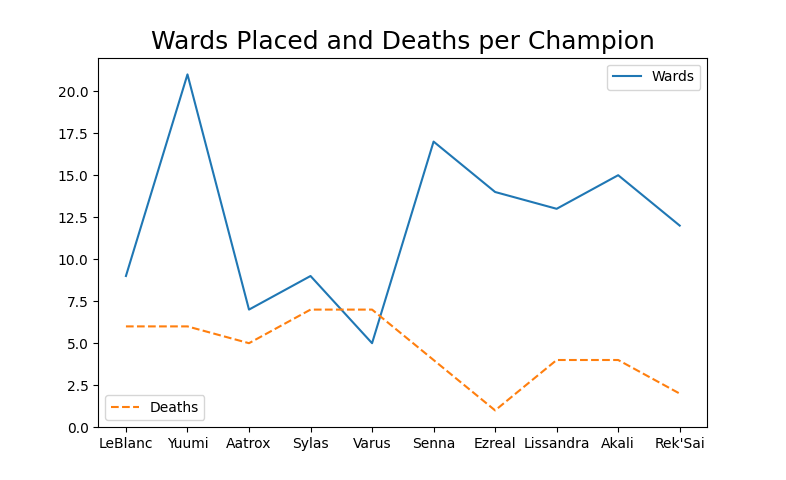
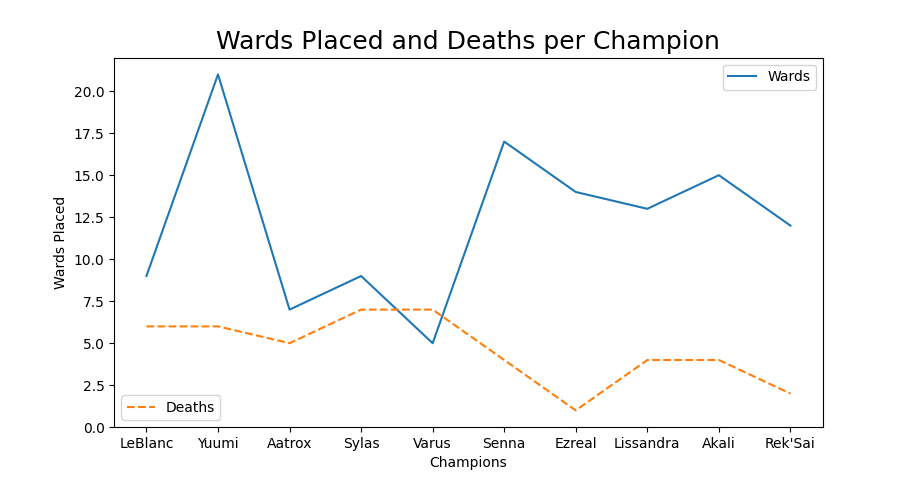
graphs update and machine learning csv fixes

diff --git a/utils/import_from_dataset_to_db.py b/utils/import_from_dataset_to_db.py
@@ -40,7 +40,7 @@ def lerPartidasIndividuais():
 
             #Criação de todas as variaveis
             gameCreation = informacoesGerais[0]
-            gameDuration = informacoesGerais[1]
+            gameDuration = float(informacoesGerais[1])
             gameId = informacoesGerais[2]
             gameMode = informacoesGerais[3]
             gameType = informacoesGerais[4]
@@ -57,8 +57,42 @@ def lerPartidasIndividuais():
             participantIdentities = ast.literal_eval(participantIdentities) #Transforma string em uma lista
             
             #participants
+            pararlinha= False
             participants = dadosPartida[3]
             participants = ast.literal_eval(participants) #Transforma string em uma lista
+            if (len(participants)) != 10:
+                continue
+            for i in range(len(participants)):
+                if 'stats' not in participants[i]:
+                    pararlinha=True
+                    break 
+                if 'wardsPlaced' not in participants[i]['stats']:
+                    participants[i]['stats']['wardsPlaced'] = 0
+                if 'wardsKilled' not in participants[i]['stats']:
+                    participants[i]['stats']['wardsKilled'] = 0
+                if 'neutralMinionsKilled' not in participants[i]['stats']:
+                    participants[i]['stats']['neutralMinionsKilled']=0
+                if 'neutralMinionsKilledTeamJungle' not in participants[i]['stats']:
+                    participants[i]['stats']['neutralMinionsKilledTeamJungle']=0
+                if 'neutralMinionsKilledEnemyJungle' not in participants[i]['stats']:
+                    participants[i]['stats']['neutralMinionsKilledEnemyJungle']=0
+                if 'firstBloodKill' not in participants[i]['stats']:
+                    participants[i]['stats']['firstBloodKill']= False
+                if 'firstBloodAssist' not in participants[i]['stats']:
+                    participants[i]['stats']['firstBloodAssist']= False
+                if 'firstTowerKill' not in participants[i]['stats']:
+                    participants[i]['stats']['firstTowerKill']=False
+                if 'firstTowerAssist' not in participants[i]['stats']:
+                    participants[i]['stats']['firstTowerAssist']=False
+                if 'firstInhibitorKill' not in participants[i]['stats']:
+                    participants[i]['stats']['firstInhibitorKill']=False
+                if 'firstInhibitorAssist' not in participants[i]['stats']:
+                    participants[i]['stats']['firstInhibitorAssist']=False
+                if 'highestAchievedSeasonTier' not in participants[i]:
+                    participants[i]['highestAchievedSeasonTier'] = 'UNRANKED'
+                
+            if pararlinha == True:
+                continue
 
             partida = {
                         'gameCreation': gameCreation,
@@ -77,11 +111,12 @@ def lerPartidasIndividuais():
                         'statusStatusCode': statusStatusCode
             }
             partidas.insert_one(partida)
-
+            # break
     #Finalizar Arquivos
     listaPartidas.close()
 
     return 
 
 lerPartidasIndividuais()
+
 print('done')

diff --git a/utils/gerador_de_graficos.py b/utils/gerador_de_graficos.py
@@ -90,7 +90,13 @@ ax.yaxis.set_major_formatter(formatter)
 plt.bar(x, cs)
 plt.xticks(x, (championName[0], championName[1], championName[2], championName[3], championName[4], championName[5], championName[6], championName[7], championName[8], championName[9]))
 plt.title("CS per Champion", fontsize=18)
+plt.xlabel('Champions')
+plt.ylabel('Creep Score')
+
 plt.show()
+
+
+
 ################################################################
 
 #GRAFICO 2
@@ -109,6 +115,9 @@ ax = plt.gca().add_artist(first_legend)
 plt.legend(handles=[line2], loc='lower left')
 
 plt.title("Wards Placed and Deaths per Champion", fontsize=18)
+plt.xlabel('Champions')
+plt.ylabel('Wards Placed')
+
 plt.show()
 
 ###################################################################
@@ -120,6 +129,6 @@ plt.show()
 data = creepscore
 plt.boxplot(data) 
 plt.title("CS boxplot", fontsize=18)
+plt.ylabel('Creepscore')
+
 plt.show()
-
-
